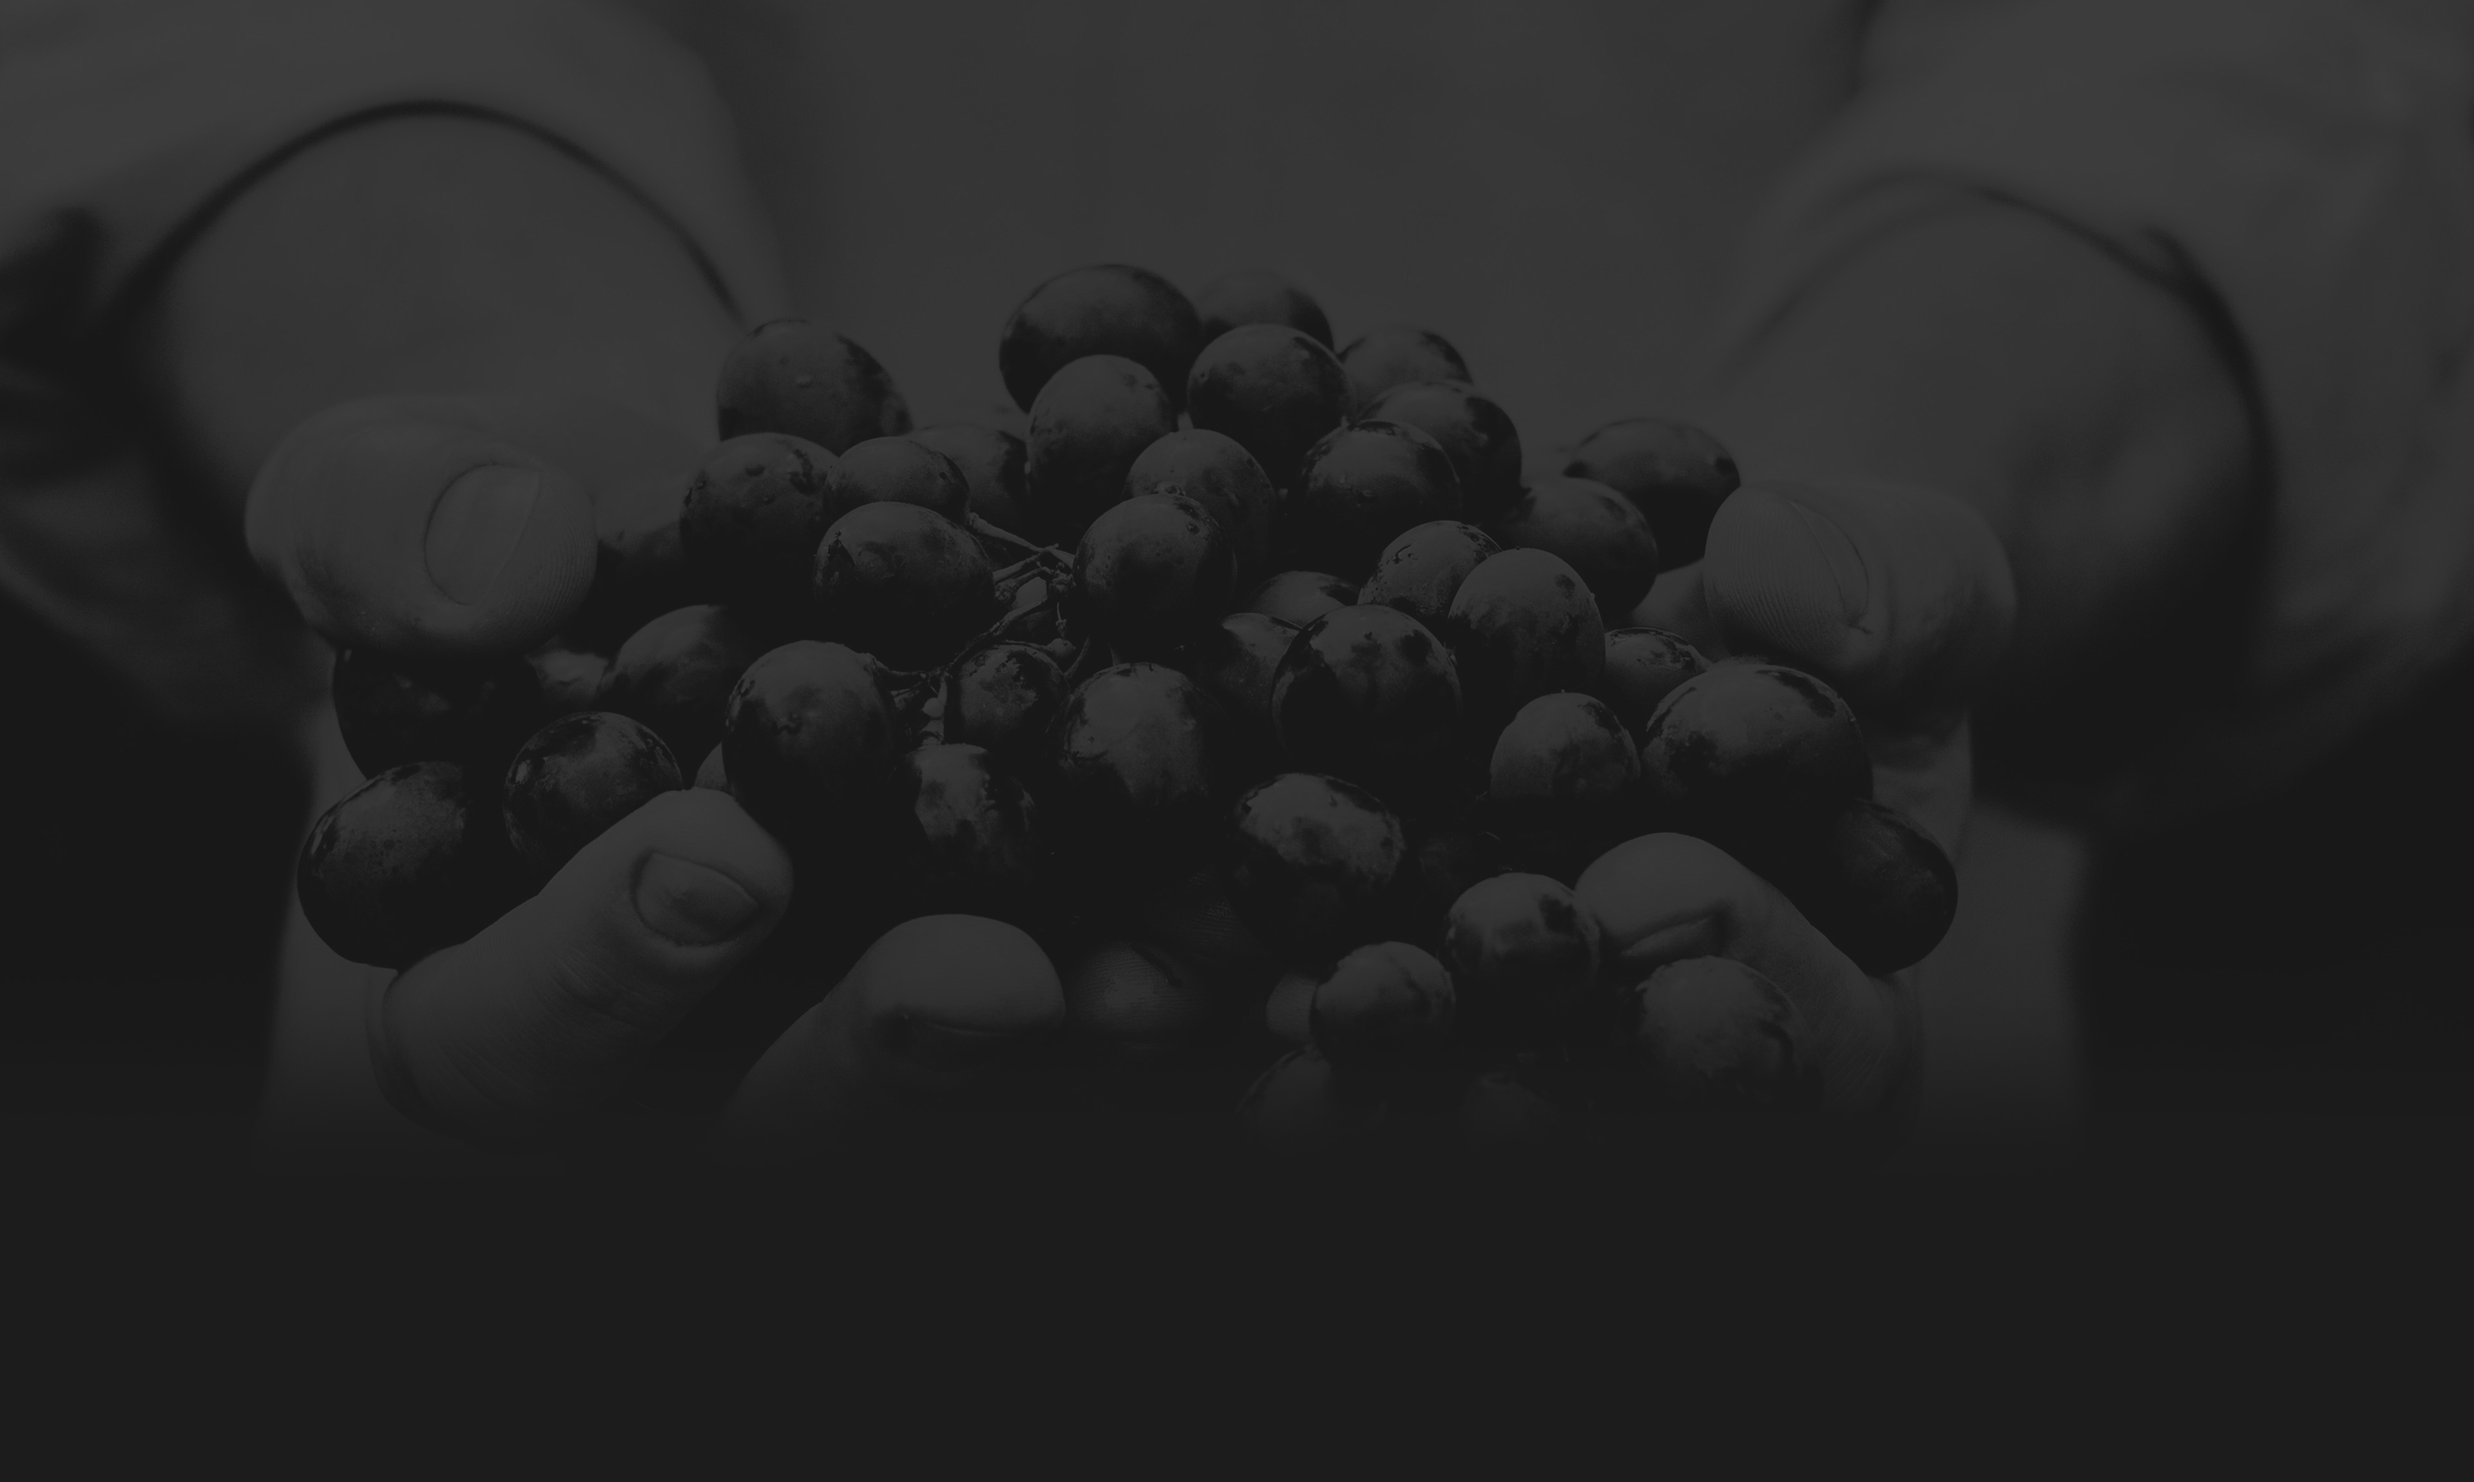
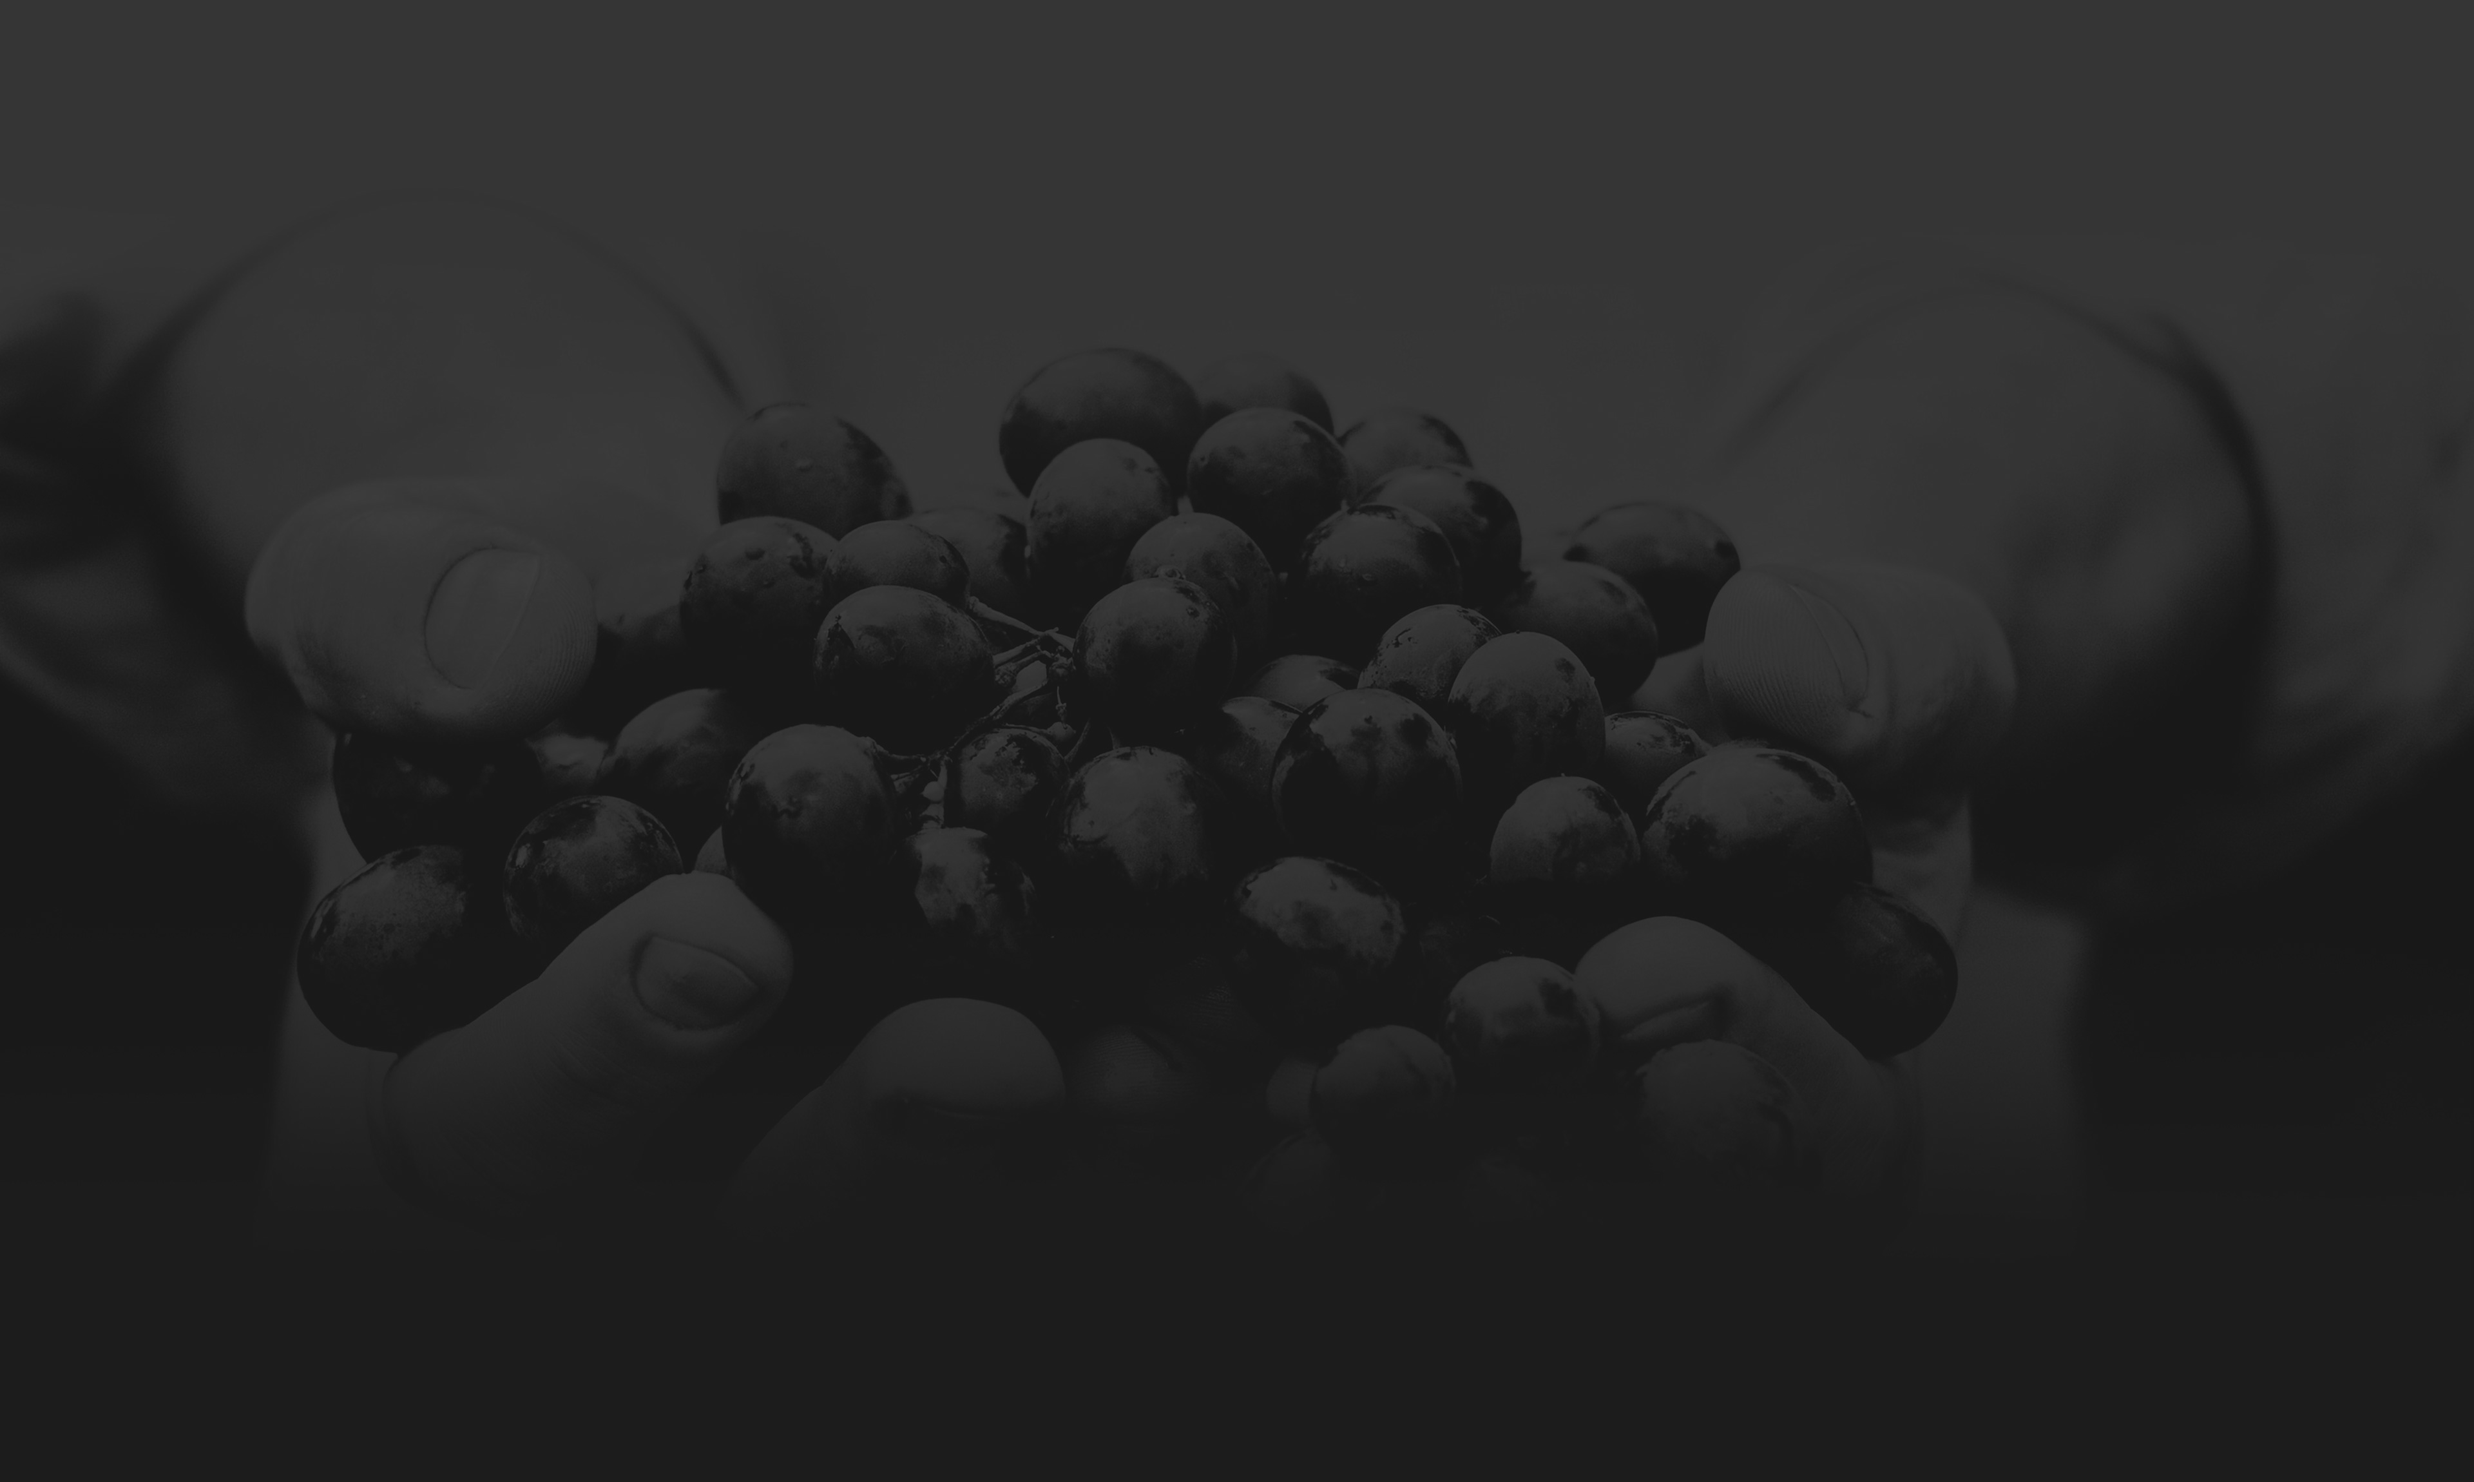
header img updated

diff --git a/css/abstemios.css b/css/abstemios.css
@@ -13,7 +13,7 @@ header {
 
   background-image: url("../img/abstemios-header.jpg");
   background-color: #1B1C1D; 
-  height: 540px; 
+  height: 500px; 
   background-position: center; 
   background-repeat: no-repeat; 
   background-size: cover; /* Resize the background image to cover the entire container */
